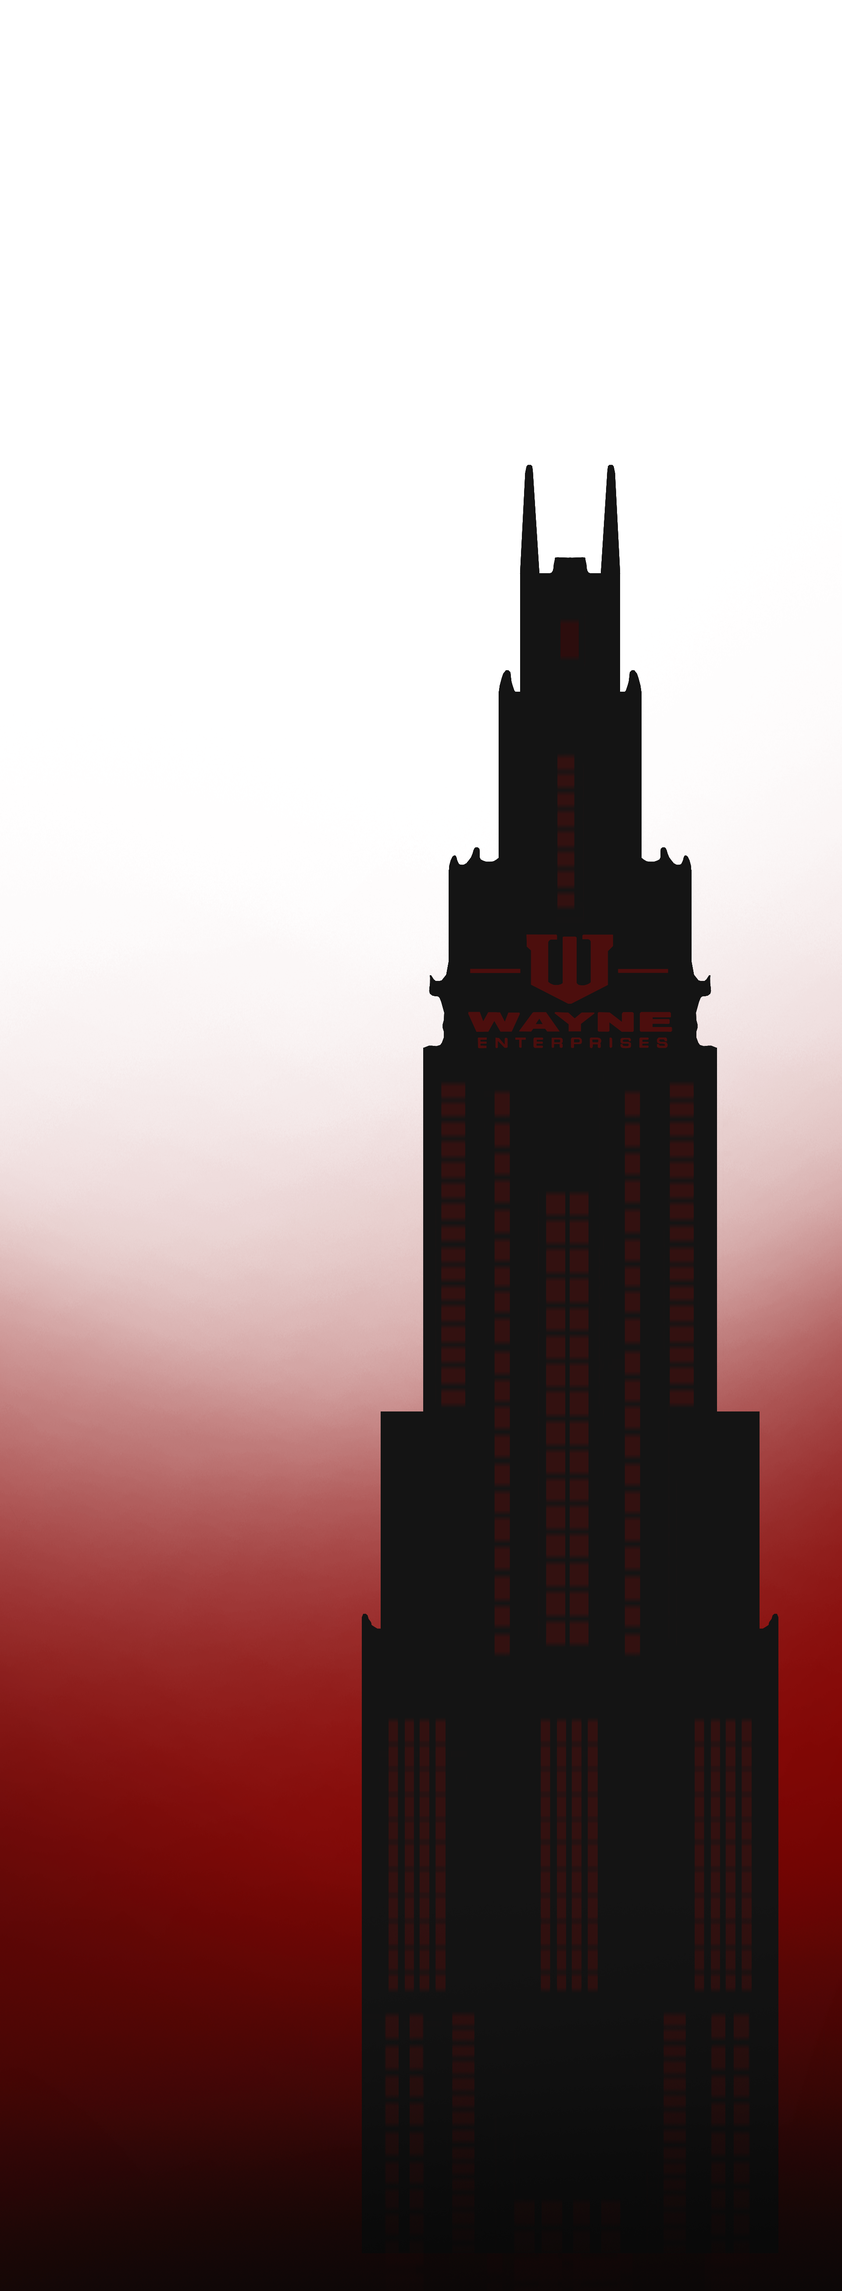
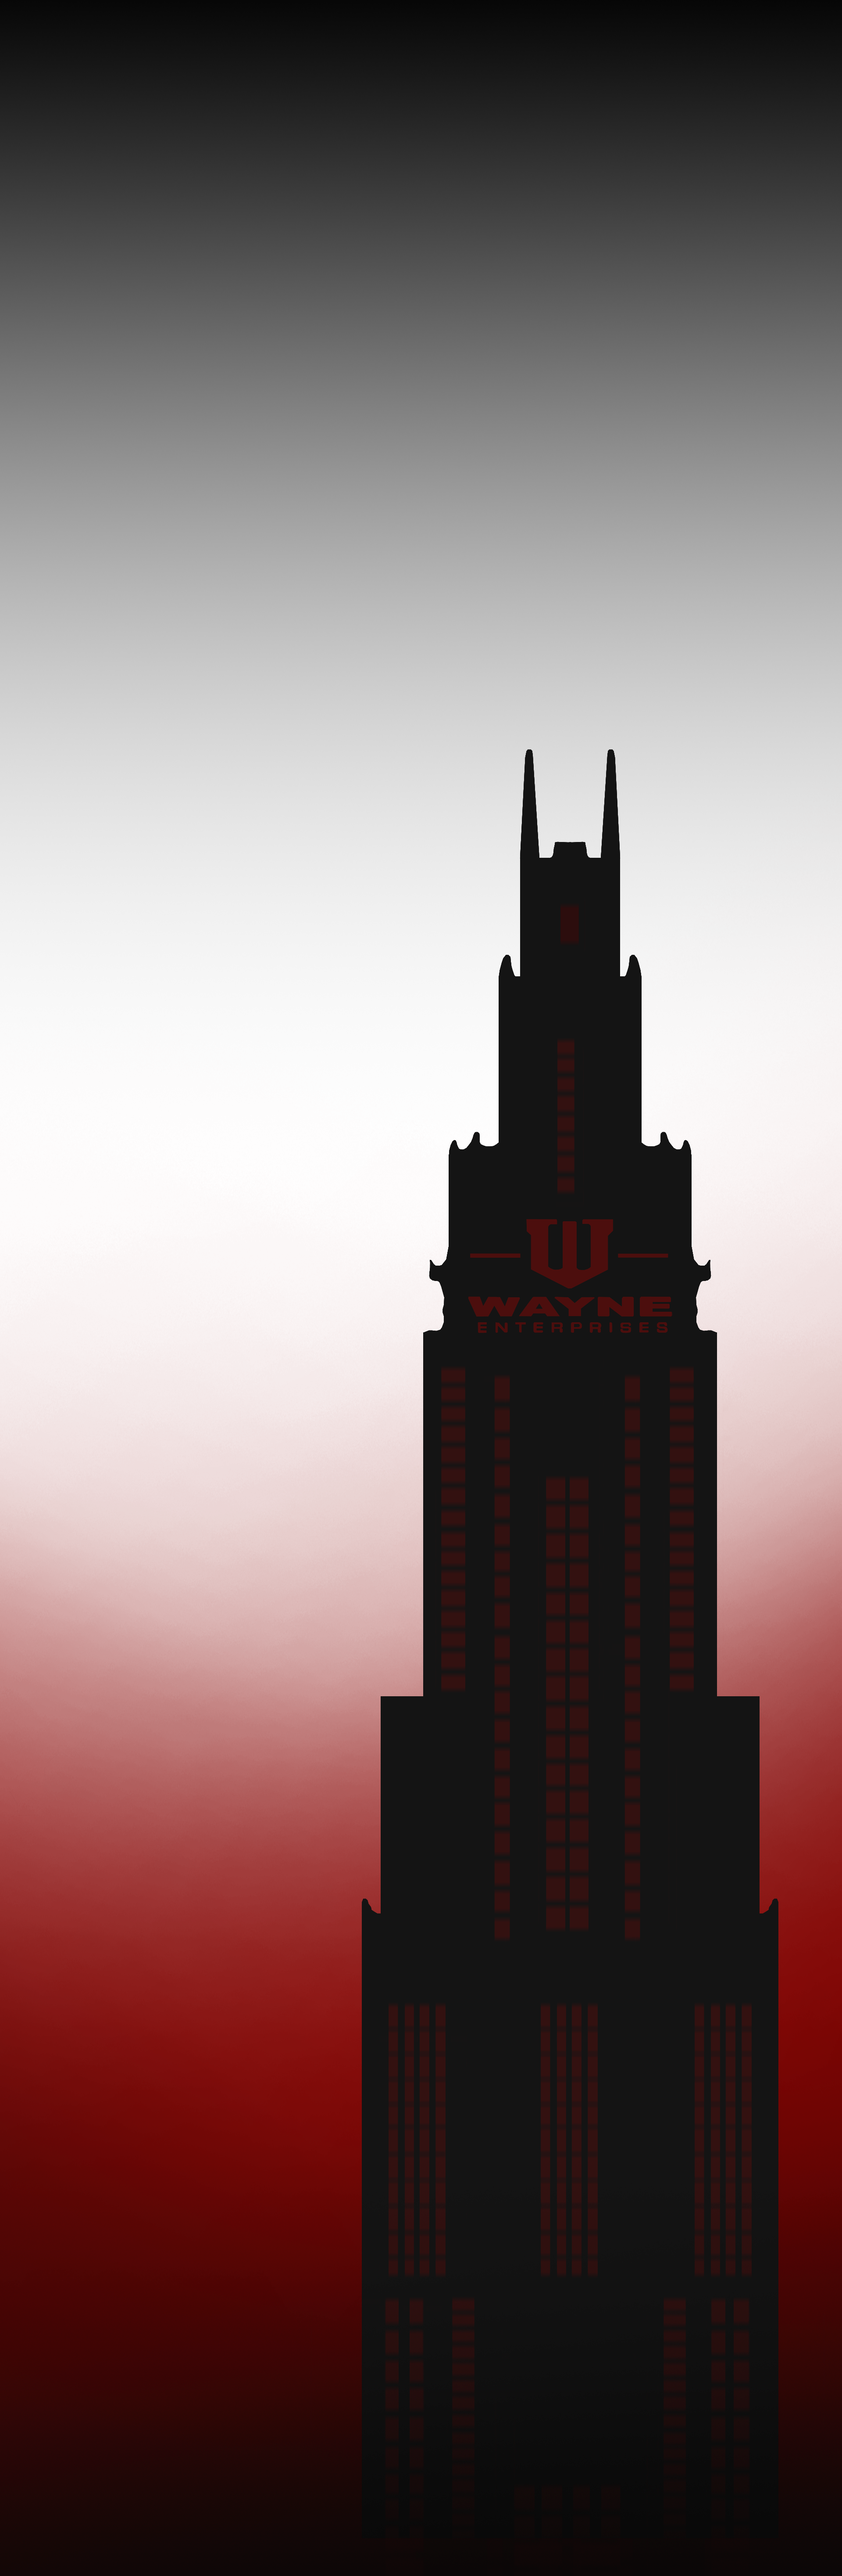
Paralaxx

diff --git a/main.js b/main.js
@@ -16,6 +16,8 @@ gsap.to(".logo", {
 });
 
 
+
+
 // gsap.fromTo(".bats img", 
 //   {
 //     x: '-100vw', 
@@ -58,3 +60,31 @@ window.onload = function() {
       }, 1000); // entspricht der Dauer der Fade-Out-Animation
   }, 900); // 2 Sekunden warten, bevor der Fade-Out beginnt
 };
+
+
+gsap.registerPlugin(ScrollTrigger);
+
+// Parallax-Effekt
+gsap.to("#foregroundTower", { // Vordergrund (Tower.png)
+  y: "30%", // Bewegt sich schneller
+  ease: "none",
+  scrollTrigger: {
+    trigger: "#firstSection", // Animationsbereich
+    start: "top top", // Start, wenn #firstSection oben sichtbar ist
+    end: "bottom top", // Ende, wenn #firstSection den Viewport verlässt
+    scrub: true, // Animation mit Scrollen synchronisieren
+    markers: false // Markierungen für Debugging deaktivieren
+  }
+});
+
+gsap.to("#backgroundTower", { // Hintergrund (BackgroundTower.png)
+  y: "10%", // Bewegt sich langsamer
+  ease: "none",
+  scrollTrigger: {
+    trigger: "#firstSection", 
+    start: "top top", 
+    end: "bottom top", 
+    scrub: true,
+    markers: false
+  }
+});

diff --git a/index.html b/index.html
@@ -12,21 +12,18 @@
 <body>
 
     <div class="content">
-        <div id="black-screen"></div>
-        <!-- <div id="firstSection">
+        <div id="black-screen">
+
+        </div>
+        <div id="firstSection">
 
 
-
+            
             <div class="wayneTower">
-                <img src="images/wayneTower_2.png" alt="Wayne Tower" style="visibility: hidden; width: 100vw;">
-            </div>
-        </div> -->
-
-        <section>
-            <img src="images/Tower.png" id="Tower">
-            <img src="images/BackgroundTower.png" id="BackgroundTower">
-
-        </section>
+                <img src="images/Tower.png" alt="Tower" id="foregroundTower">
+                <img src="images/BackgroundTower.png" alt="Wayne Tower" id="backgroundTower" style="visibility: visible;">
+              </div>
+              
 
         <div class="secondSection">
             <!-- to do -->

diff --git a/styles.css b/styles.css
@@ -5,11 +5,12 @@ body {
 }
 
 .wayneTower {
-  background-image: url('images/wayneTower_2.png');
+  background-image: url('images/BackgroundTower.png');
   background-position: top;
   background-repeat: no-repeat;
   background-size: 100vw auto;
 }
+
 
 
 .logo-container {
